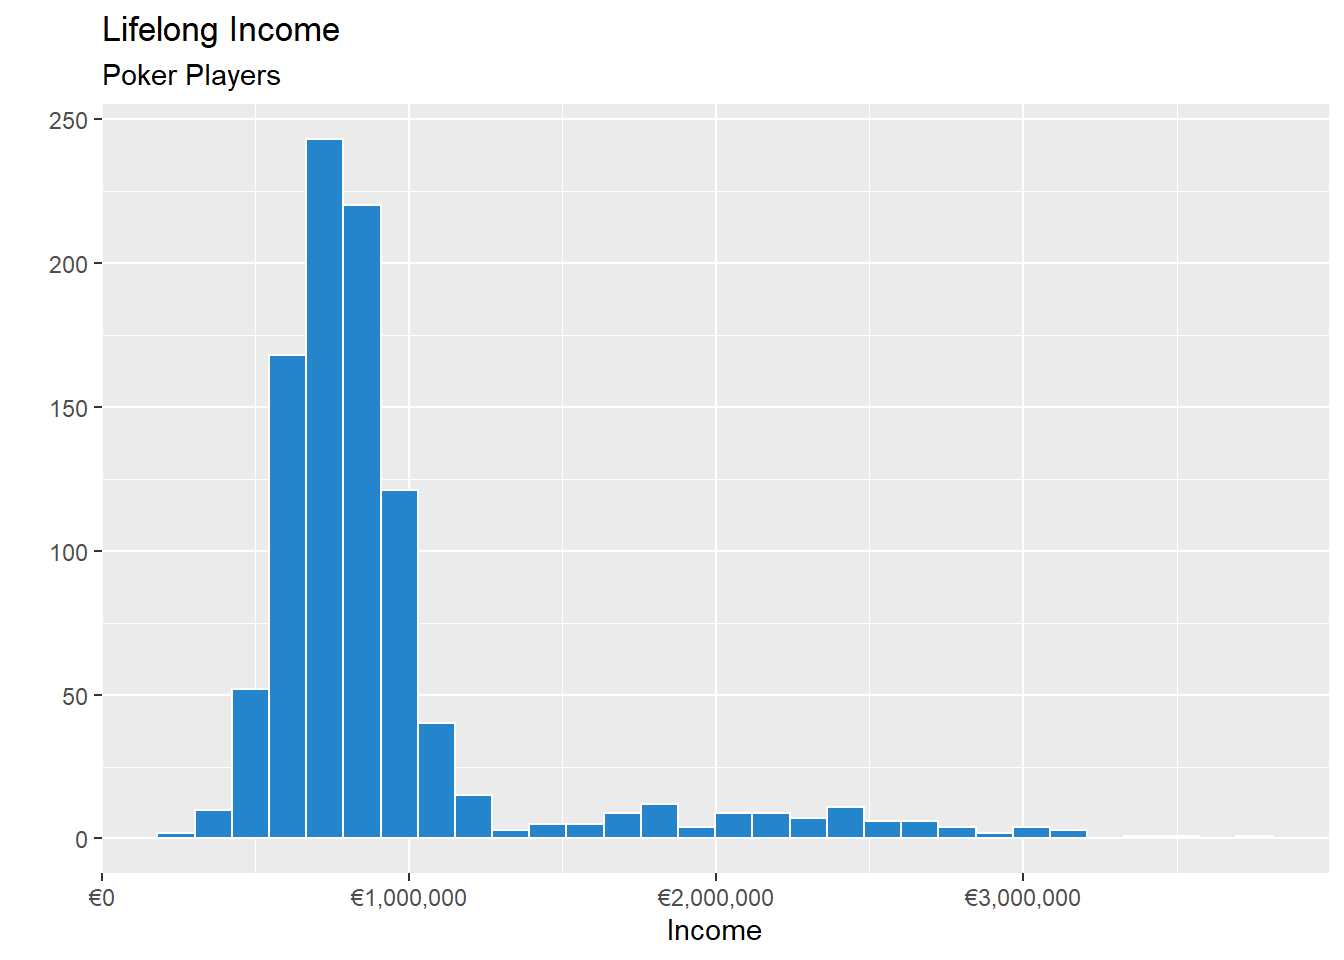
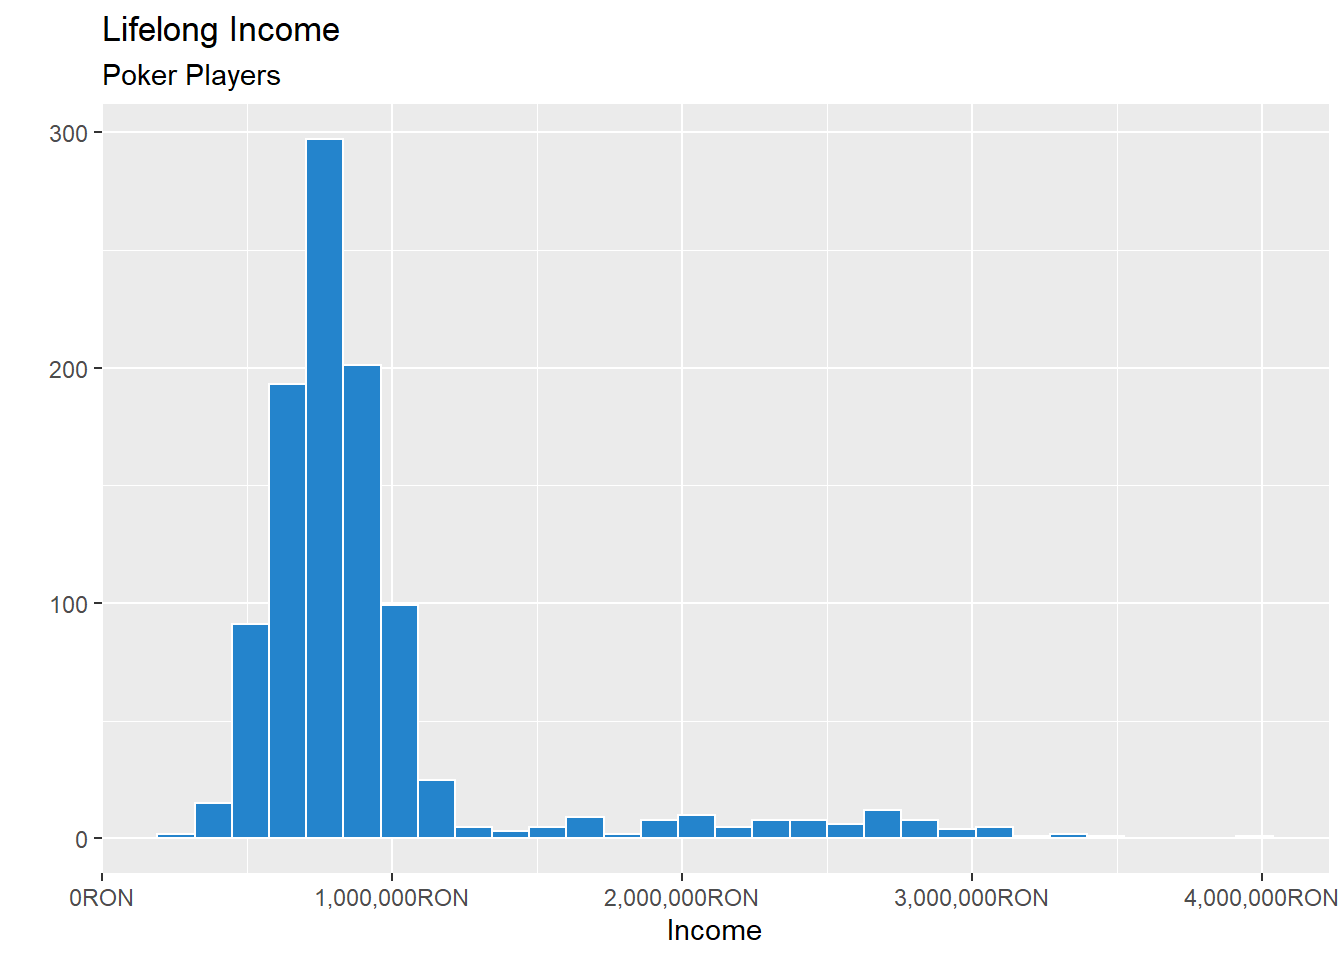
Adjusted Graphs

diff --git a/content/post/2021-03-18-decision-making-with-uncertainty/index.en.html b/content/post/2021-03-18-decision-making-with-uncertainty/index.en.html
@@ -110,12 +110,9 @@ histogram &lt;- function(.df, .var = Income){
   
   .df %&gt;% 
     ggplot(aes({{.var}})) +
-    geom_histogram(colour = &quot;white&quot;, fill = &quot;#2484cc&quot;) +
+    geom_histogram(fill = &quot;#2484cc&quot;, colour = &quot;white&quot;) +
     labs(x = &quot;Income&quot;, y = &quot;&quot;) +
-    scale_x_continuous(labels = label_dollar(prefix = &quot;€&quot;))
-    #theme_void()+
-    #theme(plot.background = element_rect(fill = &quot;#1A2E40&quot;, color = NA),
-    #      strip.text.x = element_text(family = &quot;oswald&quot;, face = &quot;bold&quot;, size = 12, color = &quot;#D8E6F2&quot;))
+    scale_x_continuous(labels = label_dollar(prefix = &quot;&quot;, suffix = &quot;RON&quot;))
 }</code></pre>
 <pre class="r"><code># Just a simple function to format the Romanian currency so I can used stored variables.
 ron_format &lt;- function(.x){
@@ -149,9 +146,8 @@ ron_format &lt;- function(.x){
 tibble(Income = dr_sal_dist) %&gt;% # transforms the list in a table for the graph
     histogram() +
     labs(title = &quot;Monthly Income Distribution&quot;,
-         subtitle = &quot;Medical Professionals&quot;) + 
-    scale_x_continuous(labels = label_dollar(prefix = &quot;&quot;, suffix = &quot;RON&quot;))</code></pre>
-<p><img src="{{< blogdown/postref >}}index.en_files/figure-html/unnamed-chunk-1-1.png" width="100%" /></p>
+         subtitle = &quot;Medical Professionals&quot;)</code></pre>
+<p><img src="{{< blogdown/postref >}}index.en_files/figure-html/dr_sal_graph-1.png" width="100%" /></p>
 <p>The graphic above is a simple representation of how many people earn a specific amount on a monthly basis. As it is expected from a normal, or near normal distribution, most people earn close to the average while a few have extremely high earnings or extremely low earnings.</p>
 <p>Now that I have the distribution simulated, I can proceed with the transformation of the data so I will have the salaries in € and calculate the earnings for a lifetime. For that I will need to:</p>
 <ol style="list-style-type: decimal">
@@ -197,7 +193,7 @@ dr_sal_final &lt;- dr_sal_final * admittance_rate
 
 # Just to be sure, I would like to see the rate
 print(sum(admittance_rate) / 10000)</code></pre>
-<pre><code>#&gt; [1] 0.4552</code></pre>
+<pre><code>#&gt; [1] 0.4506</code></pre>
 <p>I will take a look at the numbers in the analysis part, this is just the preparation of the data. Now, let’s see if we can estimate how much does an IT professional earn.</p>
 </div>
 <div id="the-it-crowd" class="section level2">
@@ -222,13 +218,12 @@ it_sal_dist &lt;- c(it_sal_low, it_sal_high)
 
 # The average of my salary distribution should be similar to that on the website
 mean(it_sal_dist)</code></pre>
-<pre><code>#&gt; [1] 112325.3</code></pre>
+<pre><code>#&gt; [1] 113147.8</code></pre>
 <p>From what I can see the distribution I have created has the same average salary as the population on the website so I can safely assume that the distribution I have created more or less resembles the population I want to recreate. The distribution looks like this:</p>
 <pre class="r"><code>tibble(Income = it_sal_dist) %&gt;% 
   histogram() +
   labs(title = &quot;Yearly Income Distribution&quot;,
-       subtitle = &quot;IT Workers&quot;) + 
-  scale_x_continuous(labels = label_dollar(prefix = &quot;&quot;, suffix = &quot;RON&quot;))</code></pre>
+       subtitle = &quot;IT Workers&quot;)</code></pre>
 <p><img src="{{< blogdown/postref >}}index.en_files/figure-html/it_yearly_salary-1.png" width="100%" /></p>
 <p>This is not a normal distribution, but that was to be expected, however it is not a power law distribution either. This can become a power law if I take into account if I consider developing an app and make it big.</p>
 <p>It is a bit complicated to get data on what is the success rate of an app. An interesting and comprehensive summary can be found in this <a href="https://venturebeat.com/2017/09/24/your-chances-of-making-a-successful-mobile-app-are-almost-nil/">article</a>. I can see that I will need €25,000 as initial investment and I need to make a full time job out of it and afterwards you need to invest in marketing and spend a lot of time adjusting ASO. For me this would have been a potential career if it would have been possible to spend some weekends creating the app, uploading it to an app store and be done with it.</p>
@@ -297,7 +292,9 @@ poker_players &lt;- c(avg_player, elt_player)</code></pre>
 <pre class="r"><code>tibble(Income = poker_players) %&gt;% 
   histogram() +
   labs(title = &quot;Monthly Income Distribution&quot;,
-       subtitle = &quot;Professional Poker Players&quot;)</code></pre>
+       subtitle = &quot;Professional Poker Players&quot;) +
+# The salaries are in € so I will adjust them
+  scale_x_continuous(labels = label_dollar(prefix = &quot;€&quot;))</code></pre>
 <p><img src="{{< blogdown/postref >}}index.en_files/figure-html/poker_player_distribution-1.png" width="100%" /></p>
 <p>The distribution seems OK from what was described in my source. Now, for the final touch, I just need two more steps:</p>
 <ol style="list-style-type: decimal">
@@ -319,8 +316,8 @@ poker_players_final &lt;- poker_players * success_prob
 
 # Just to be sure, I would like to see the rate
 print(sum(success_prob) / 10000)</code></pre>
-<pre><code>#&gt; [1] 0.0973</code></pre>
-<p>Looks good, 9.73% is exactly what it is to be expected.</p>
+<pre><code>#&gt; [1] 0.1026</code></pre>
+<p>Looks good, 10.26% is exactly what it is to be expected.</p>
 <p>All I need right now is to analyse the data and see which career path is better for me.</p>
 </div>
 </div>
@@ -346,9 +343,9 @@ rm(df_dr, df_it, df_pp)</code></pre>
   histogram() +
   facet_wrap(~ Career, ncol = 1) +
   labs(title = &quot;Lifelong Income&quot;,
-       subtitle = &quot;ALL Careers&quot;)</code></pre>
-<pre><code>#&gt; `stat_bin()` using `bins = 30`. Pick better value with `binwidth`.</code></pre>
-<p><img src="{{< blogdown/postref >}}index.en_files/figure-html/unnamed-chunk-4-1.png" width="100%" />
+       subtitle = &quot;ALL Careers&quot;) +
+  scale_x_continuous(labels = label_dollar(prefix = &quot;€&quot;))</code></pre>
+<p><img src="{{< blogdown/postref >}}index.en_files/figure-html/comparison_graph-1.png" width="100%" />
 There seems to be quite a difference between the three.</p>
 <p>The IT workers seem to have more salaries around €500,000 as lifelong income, a bit smaller that the doctors’. However, they are the only ones that have a 100% success rate in actually being able to earn from this career.</p>
 <p>I can also see that the doctors, the ones who made it pass the culling, have quite a normally distributed salary range and from what I can see, which is a good thing as it shows that we can extract some conclusions from the data. It is very tempting to follow this career path as it can have high rewards although the initial admission rate makes me a bit cautious.</p>
@@ -359,7 +356,7 @@ There seems to be quite a difference between the three.</p>
   labs(title = &quot;Lifelong Income&quot;,
        subtitle = &quot;Poker Players&quot;)</code></pre>
 <p><img src="{{< blogdown/postref >}}index.en_files/figure-html/poker_players_final_graph-1.png" width="100%" /></p>
-<p>It is quite clear from the data that this job is quite well paid, most of the ones that made it as a professional player earn around €750K over their professional careers, so that makes them 50% better paid than most IT professionals, and the whales have it better than the doctors, over €3M. The problem with this is even more obvious then it is for the doctors, out of 10,000 only about 10% make it up to here. In my IT sample I have 1586 people who earn over €750K which is more than all the poker players that made it as a professional.</p>
+<p>It is quite clear from the data that this job is quite well paid, most of the ones that made it as a professional player earn around €750K over their professional careers, so that makes them 50% better paid than most IT professionals, and the whales have it better than the doctors, over €3M. The problem with this is even more obvious then it is for the doctors, out of 10,000 only about 10% make it up to here. In my IT sample I have 1609 people who earn over €750K which is more than all the poker players that made it as a professional.</p>
 <p>Now, before I dive too deep in these type of discussions I must remember my basic premise, which is the career path that give me the highest income across 10,000 lives and is the least exposed to luck in getting there. With that said I would like to check the numbers.</p>
 <pre class="r"><code># The data as it is now is not useful, I will rearrange it a bit to be better summarised
 # This will help later on as well so I will store it in a separate data frame
@@ -398,7 +395,7 @@ Poker Player
 Min. : 0
 </td>
 <td style="text-align:left;">
-Min. : -46923
+Min. : 6108
 </td>
 <td style="text-align:left;">
 Min. : 0
@@ -411,7 +408,7 @@ Min. : 0
 1st Qu.: 0
 </td>
 <td style="text-align:left;">
-1st Qu.: 410301
+1st Qu.: 413564
 </td>
 <td style="text-align:left;">
 1st Qu.: 0
@@ -424,7 +421,7 @@ Min. : 0
 Median : 0
 </td>
 <td style="text-align:left;">
-Median : 509921
+Median : 508887
 </td>
 <td style="text-align:left;">
 Median : 0
@@ -434,23 +431,23 @@ Median : 0
 <td style="text-align:left;">
 </td>
 <td style="text-align:left;">
-Mean : 524341
+Mean : 519983
 </td>
 <td style="text-align:left;">
-Mean : 584092
+Mean : 588369
 </td>
 <td style="text-align:left;">
-Mean : 89926
+Mean : 95153
 </td>
 </tr>
 <tr>
 <td style="text-align:left;">
 </td>
 <td style="text-align:left;">
-3rd Qu.:1112234
+3rd Qu.:1117171
 </td>
 <td style="text-align:left;">
-3rd Qu.: 630953
+3rd Qu.: 637459
 </td>
 <td style="text-align:left;">
 3rd Qu.: 0
@@ -460,28 +457,28 @@ Mean : 89926
 <td style="text-align:left;">
 </td>
 <td style="text-align:left;">
-Max. :2276445
+Max. :2096457
 </td>
 <td style="text-align:left;">
-Max. :1916375
+Max. :2049625
 </td>
 <td style="text-align:left;">
-Max. :3763895
+Max. :3959211
 </td>
 </tr>
 </tbody>
 </table>
-<p>So, this is plain as day, with a lifelong average of €584,092 the IT crew wins the contest. This is because although the individual salaries for the doctors tend to be higher that the ones for IT, quite a few people did not make it as a doctor and their earnings from this field, €0 in this case, move the average down to €524,341.</p>
-<p>It is interesting that the Poker players have the highest earners with €3,763,895 however the average income of €89,925.99 is not very appealing to me.</p>
+<p>So, this is plain as day, with a lifelong average of €588,369 the IT crew wins the contest. This is because although the individual salaries for the doctors tend to be higher that the ones for IT, quite a few people did not make it as a doctor and their earnings from this field, €0 in this case, move the average down to €519,983.</p>
+<p>It is interesting that the Poker players have the highest earners with €3,959,211 however the average income of €95,152.84 is not very appealing to me.</p>
 <p>The last thing I would like to test is that indeed there is a significant difference between these careers. It does not matter as much in this context since based on these data I would choose to follow a career in IT. Since it is the most accessible my consequences in choosing this career are not high. However, if the situation would have been less clear cut I might want to make sure that it matters if I choose one career over another.</p>
 <p>This can be done with an <a href="https://en.wikipedia.org/wiki/Analysis_of_variance#:~:text=Analysis%20of%20variance%20(ANOVA)%20is,by%20the%20statistician%20Ronald%20Fisher.">Analysis Of Variance (ANOVA)</a>. I’m not going to go into details about this, I will just mention that ANOVA is a way of comparing three or more groups and checking if the differences between them are significant or not. This is not exactly true but the subject is outside the scope of this article and this explanation is a useful way of remembering it.</p>
 <pre class="r"><code>anova_results &lt;- aov(`IT Worker` ~ `Doctor` + `Poker Player`, data = df_wide)
 
 summary(anova_results)</code></pre>
 <pre><code>#&gt;                  Df    Sum Sq   Mean Sq F value Pr(&gt;F)    
-#&gt; Doctor            1 3.529e+11 3.529e+11   4.241 0.0395 *  
-#&gt; `Poker Player`    1 8.052e+12 8.052e+12  96.768 &lt;2e-16 ***
-#&gt; Residuals      9997 8.319e+14 8.321e+10                   
+#&gt; Doctor            1 4.134e+11 4.134e+11   4.811 0.0283 *  
+#&gt; `Poker Player`    1 8.698e+12 8.698e+12 101.218 &lt;2e-16 ***
+#&gt; Residuals      9997 8.591e+14 8.594e+10                   
 #&gt; ---
 #&gt; Signif. codes:  0 &#39;***&#39; 0.001 &#39;**&#39; 0.01 &#39;*&#39; 0.05 &#39;.&#39; 0.1 &#39; &#39; 1</code></pre>
 <p>So, this looks interesting. From what this shows me, there is a very significant difference between IT and poker player, which is to be expected. I can tell this by the Pr(&gt;F) value, the smaller it is the less chance that the two groups are the same distribution.</p>
